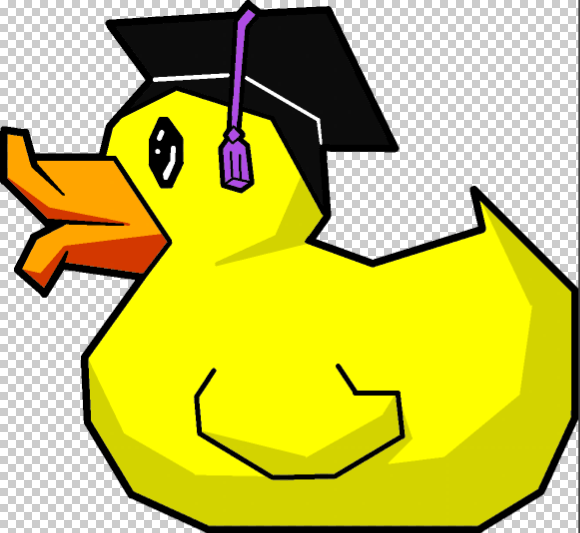
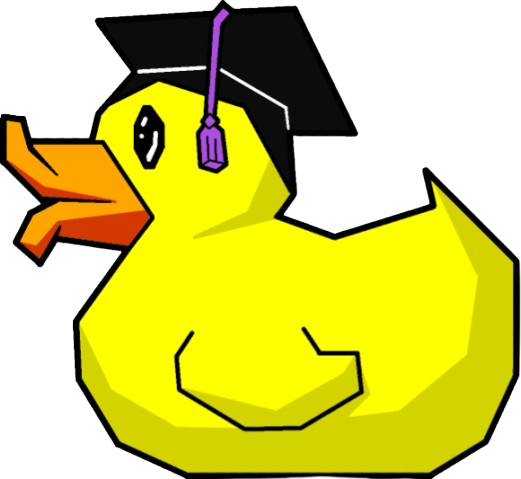
Login/Register redesign + transparent rumi png

diff --git a/App/src/pages/Register.tsx b/App/src/pages/Register.tsx
@@ -73,75 +73,76 @@ export default function Register() {
   return (
     <main className="flex w-full max-w-lg flex-col items-center text-center">
       {/* Top Section */}
-      <div className="flex flex-1 w-full">
+      <div className="flex flex-1 gap-4 w-full justify-center items-center py-4">
         <img
           className="w-12 h-12 object-contain"
           src={img}
           alt="A yellow rubber duck wearing a black graduation cap with a purple tassel"
         />
 
-        <p className="text-lilac">Rubber Duck</p>
+        <h1 className="text-peri text-3xl font-bold">Rubber Duck</h1>
       </div>
 
-      <div className="mx-auto flex flex-col max-w-sm items-center gap-x-4 rounded-xl bg-white p-6 shadow-lg outline outline-black/5 dark:bg-slate-800 dark:shadow-none dark:-outline-offset-1 dark:outline-white/10">
+      <div className="mx-auto flex flex-col max-w-sm items-center gap-2 rounded-xl bg-white p-6 shadow-lg outline outline-black/5 dark:bg-slate-800 dark:shadow-none dark:-outline-offset-1 dark:outline-white/10">
         {/* Header Section */}
-        <div>
-          <h1 className="text-2xl">Create an Account</h1>
-
-          <p className="text-lilac">Upload. Search. Learn</p>
-        </div>
+        <h1 className="text-2xl">Create an Account</h1>
 
         {/* Email Registration */}
-        <div className="flex flex-col">
-          <form className="flex flex-col text-peri" onSubmit={handleRegister}>
-            <label>
-              Full Name:
+        <div className="flex flex-col w-full">
+          <form className="flex flex-col text-peri w-full gap-4" onSubmit={handleRegister}>
+            <label className="w-full border-b border-current">
               <input
+                placeholder="Full Name"
                 type="text"
                 onChange={(event) => setFullName(event.target.value)}
+                className="w-full text-xl outline-none bg-transparent"
               ></input>
             </label>
-            <label>
-              Email:
+            <label className="w-full border-b border-current">
               <input
+                placeholder="Email"
                 type="email"
-                // value={email}
                 onChange={(event) => setEmail(event.target.value)}
                 required
+                className="w-full text-xl outline-none bg-transparent"
               ></input>
             </label>
-            <label>
-              Password:
+            <label className="w-full border-b border-current">
               <input
+                placeholder="Password"
                 type="password"
                 onChange={(event) => setPassword(event.target.value)}
                 required
+                className="w-full text-xl outline-none bg-transparent"
               ></input>
             </label>
-            <label>
-              Confirm Password:
+            <label className="w-full border-b border-current">
               <input
+                placeholder="Confirm Password"
                 type="password"
                 onChange={(event) => setConfirmPassword(event.target.value)}
                 required
+                className="w-full text-xl outline-none bg-transparent"
               ></input>
             </label>
 
-            <button className="w-full max-w-xs rounded-xl bg-lilac px-8 py-3 text-center font-bold text-ink transition hover:opacity-90">
+            <button className="w-full max-w-xs rounded-xl bg-lilac px-8 py-2 text-center font-bold text-ink transition hover:opacity-90">
               Create Account
             </button>
           </form>
         </div>
 
         {/* Divider Text */}
-        <div>
-          <p>---------------------------- OR ----------------------------</p>
+        <div className="w-full flex items-center justify-center gap-x-2">
+          <div className="h-px flex-1 bg-current"></div>
+          <p>OR</p>
+          <div className="h-px flex-1 bg-current"></div>
         </div>
 
         {/* Google Registration */}
-        <div>
+        <div className="w-full">
           <button
-            className="w-full max-w-xs rounded-xl bg-lilac px-8 py-3 text-center font-bold text-ink transition hover:opacity-90"
+            className="w-full max-w-xs rounded-xl bg-lilac px-8 py-2 text-center font-bold text-ink transition hover:opacity-90"
             type="button"
             onClick={handleGoogleRegister}
           >
@@ -149,18 +150,10 @@ export default function Register() {
           </button>
         </div>
 
-        {/* Storage Note Text */}
-        <div>
-          <p className="text-xs">
-            Your uploaded files will be stored locally on this device in Rubber
-            Duck's app folder. Cloud storage may be added in a future update.
-          </p>
-        </div>
-
         {/* Login Link */}
         <div>
           <p>Already have an account?</p>
-          <Link to="/login" className="">
+          <Link to="/login" className="text-lilac">
             Log in
           </Link>
         </div>

diff --git a/App/src/pages/Login.tsx b/App/src/pages/Login.tsx
@@ -66,45 +66,43 @@ export default function Login() {
   return (
     <main className="flex w-full max-w-lg flex-col items-center text-center">
       {/* Top Section */}
-      <div className="flex flex-1 w-full">
+      <div className="flex flex-1 gap-4 w-full justify-center items-center py-4">
         <img
           className="w-12 h-12 object-contain"
           src={img}
           alt="A yellow rubber duck wearing a black graduation cap with a purple tassel"
         />
 
-        <p className="text-lilac">Rubber Duck</p>
+        <h1 className="text-peri text-3xl font-bold">Rubber Duck</h1>
       </div>
 
-      <div className="mx-auto flex flex-col max-w-sm items-center gap-x-4 rounded-xl bg-white p-6 shadow-lg outline outline-black/5 dark:bg-slate-800 dark:shadow-none dark:-outline-offset-1 dark:outline-white/10">
+      <div className="mx-auto flex flex-col max-w-sm items-center gap-2 rounded-xl bg-white p-6 shadow-lg outline outline-black/5 dark:bg-slate-800 dark:shadow-none dark:-outline-offset-1 dark:outline-white/10">
         {/* Header Section */}
-        <div>
           <h1 className="text-2xl">Welcome Back!</h1>
 
-          <p className="text-lilac">Login to continue</p>
-        </div>
-
         {/* Email Login */}
-        <div className="flex flex-col">
-          <form className="flex flex-col text-peri" onSubmit={handleLogin}>
-            <label>
-              Email:
+        <div className="flex flex-col w-full">
+          <form className="flex flex-col text-peri w-full gap-4" onSubmit={handleLogin}>
+            <label className="w-full border-b border-current">
               <input
+                placeholder="Email"
                 type="email"
                 onChange={(event) => setEmail(event.target.value)}
                 required
+                className="w-full text-xl outline-none bg-transparent"
               ></input>
             </label>
-            <label>
-              Password:
+            <label className="border-b border-current">
               <input
+                placeholder="Password"
                 type="password"
                 onChange={(event) => setPassword(event.target.value)}
                 required
+                className="w-full text-xl outline-none bg-transparent"
               ></input>
             </label>
 
-            <button className="w-full max-w-xs rounded-xl bg-lilac px-8 py-3 text-center font-bold text-ink transition hover:opacity-90">
+            <button className="w-full max-w-xs rounded-xl bg-lilac px-8 py-2 text-center font-bold text-ink transition hover:opacity-90">
               Login
             </button>
           </form>
@@ -112,20 +110,22 @@ export default function Login() {
 
         {/* Forgot password link */}
         <div>
-          <Link to="/forgotpassword" className="">
+          <Link to="/forgotpassword" className="text-lilac">
             Forgot Password
           </Link>
         </div>
 
         {/* Divider Text */}
-        <div>
-          <p>----------------------------- OR -----------------------------</p>
+        <div className="w-full flex items-center justify-center gap-x-2">
+          <div className="h-px flex-1 bg-current"></div>
+          <p>OR</p>
+          <div className="h-px flex-1 bg-current"></div>
         </div>
 
         {/* Google Login */}
-        <div>
+        <div className="w-full">
           <button
-            className="w-full max-w-xs rounded-xl bg-lilac px-8 py-3 text-center font-bold text-ink transition hover:opacity-90"
+            className="w-full max-w-xs rounded-xl bg-lilac px-8 py-2 text-center font-bold text-ink transition hover:opacity-90"
             type="button"
             onClick={handleGoogleLogin}
           >
@@ -136,7 +136,7 @@ export default function Login() {
         {/* Login Link */}
         <div>
           <p>Don't have an account?</p>
-          <Link to="/register" className="">
+          <Link to="/register" className="text-lilac">
             Create one
           </Link>
         </div>
